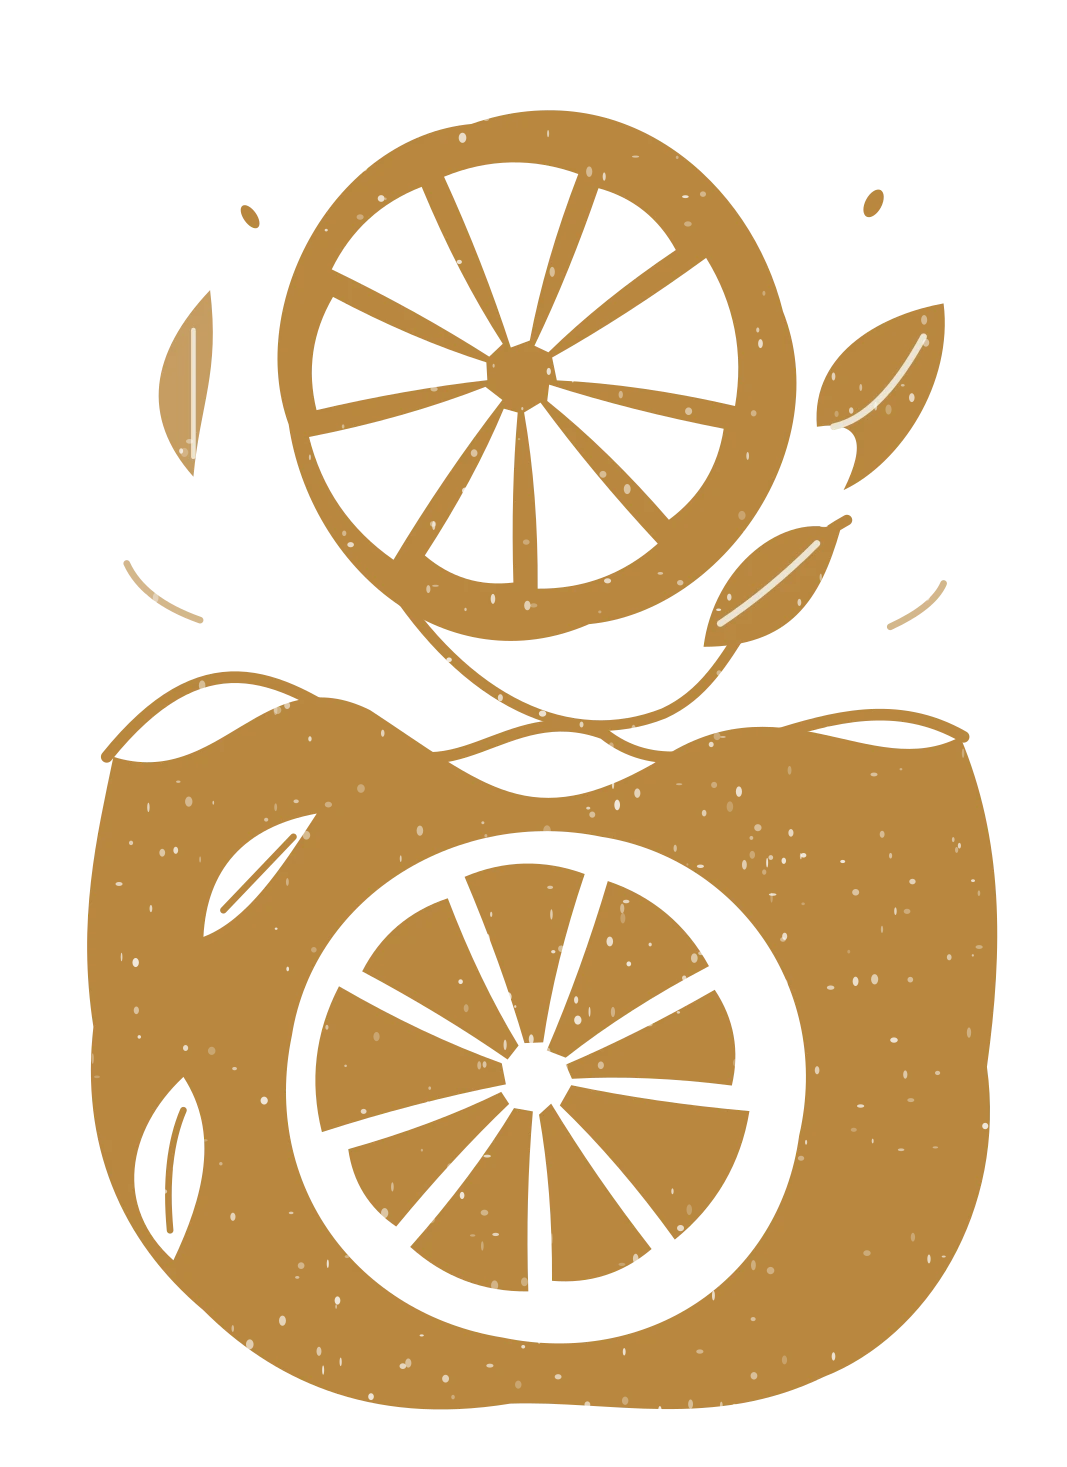
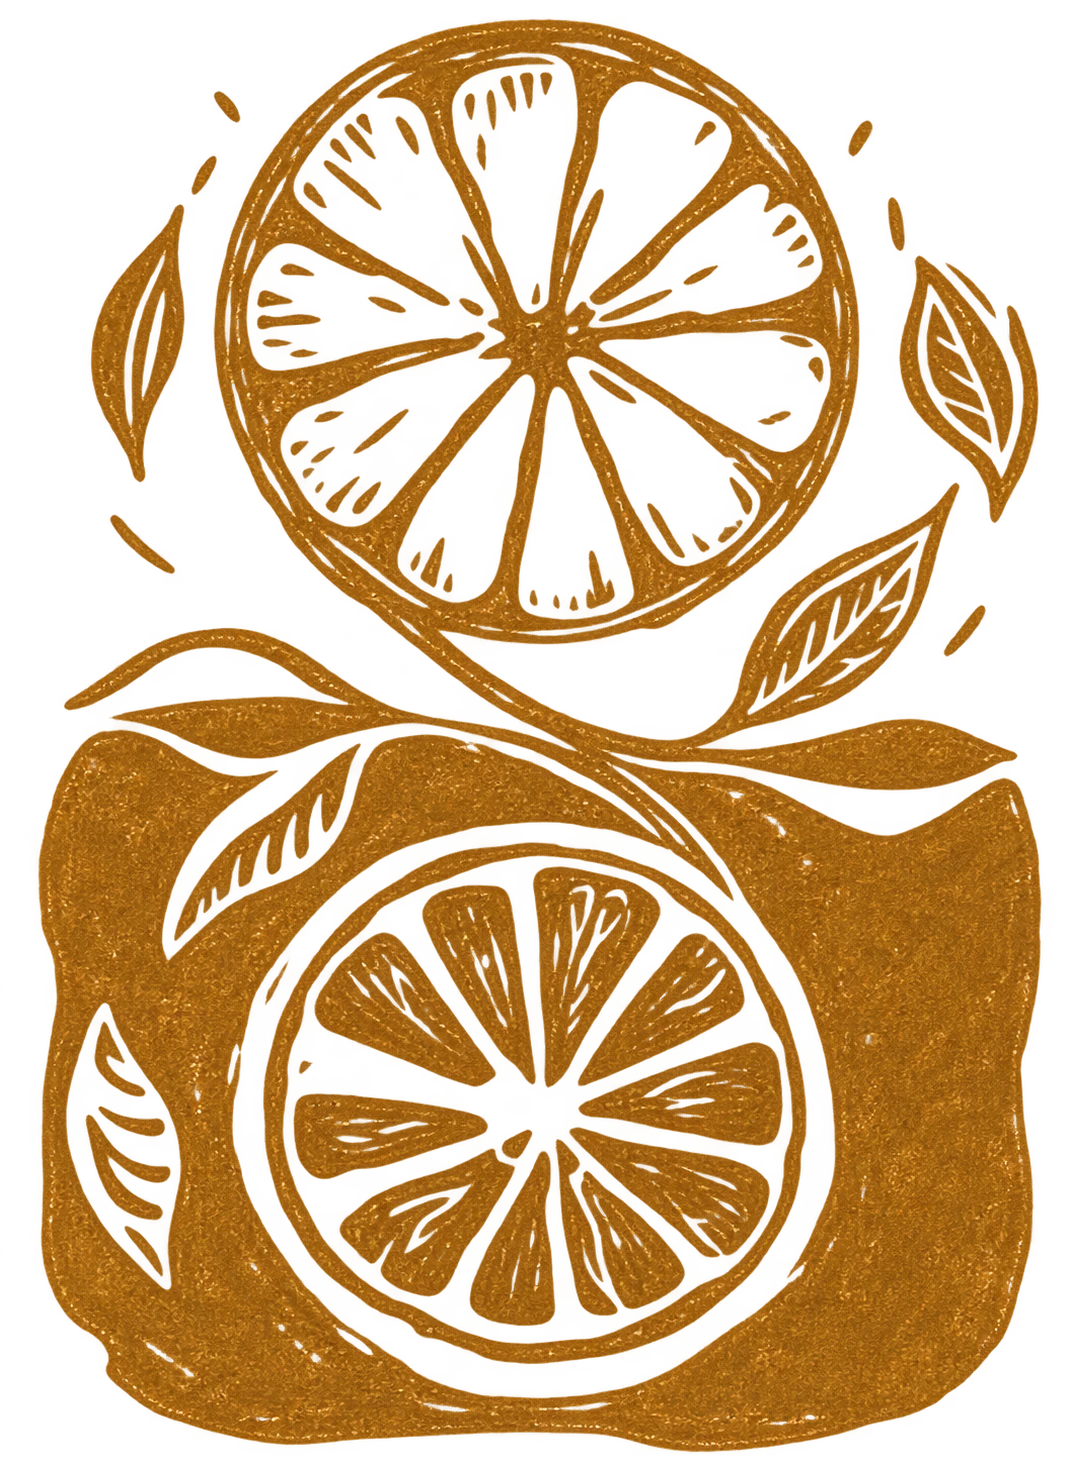
push prod9

diff --git a/src/content/map.es.ts b/src/content/map.es.ts
@@ -23,7 +23,7 @@ export const procesoContent = {
   title: "Sorbete de mora y enebro",
   introduction: "Elaborar un sabor que nace de un territorio, de sus relaciones y aromas.",
   steps: [
-    { id: "territorio", title: "Territorio", subtitle: "Todo empieza por escuchar un lugar.", body: "Observar el paisaje, el suelo, el agua, la luz y la estación. En el ejemplo, la mora y el enebro habitan un mismo entorno: ese vínculo es el punto de partida, el bosque mediterráneo" },
+    { id: "territorio", title: "Territorio", subtitle: "Todo empieza por escuchar el lugar.", body: "Observar el paisaje, el suelo, el agua, la luz y la estación. En el ejemplo, la mora y el enebro habitan un mismo entorno: el bosque mediterráneo. Ese vínculo es el punto de partida, " },
     { id: "materia", title: "Materia", subtitle: "Conocer antes de intervenir.", body: "La mora aporta dulzor, jugosidad y notas silvestres. El enebro, un carácter aromático, resinoso y de bosque. Explorar su expresión sensorial: observar, tocar, oler, degustar." },
     { id: "conocimiento", title: "Conocimiento", subtitle: "El tiempo también es un ingrediente.", body: "Investigar, probar, equivocarse y volver a probar. Poner en diálogo los saberes ancestrales, la botánica, la técnica y la experiencia sensorial para comprender la materia." },
     { id: "relaciones", title: "Relaciones", subtitle: "Encontrar el hilo que las une.", body: "La dulzura oscura y redonda de la mora permite tensar la composición con el carácter punzante del enebro. El territorio orienta la combinación; las pruebas permiten afinar su equilibrio." },

diff --git a/src/components/short-bio.tsx b/src/components/short-bio.tsx
@@ -9,11 +9,11 @@ const lines = sentences.map((text, index) => ({
 
 export function ShortBio() {
   return (
-    <p lang="es" className="max-w-xl px-4 text-center font-display text-2xl leading-relaxed text-ink-muted ">
+    <p lang="es" className="max-w-xl px-4 text-center font-display text-2xl leading-snug text-ink-muted ">
       <span className="sr-only">{seoConfig.description}</span>
       <span aria-hidden="true">
         {lines.map(({ text, offset }) => (
-          <span key={text} className="block not-first:mt-3">
+          <span key={text} className="block not-first:mt-1">
             {Array.from(text.replaceAll("-", "\u2011")).map((letter, index) => (
               <span key={index} className="bio-letter" style={{ "--letter-delay": `${(offset + index) * 0.022}s` } as CSSProperties}>{letter}</span>
             ))}

diff --git a/src/config/seo.ts b/src/config/seo.ts
@@ -6,7 +6,7 @@ export const seoConfig = {
   url: "https://paula-rosat.vercel.app",
   name: "Paula Rosat",
   title: "Paula Rosat",
-  description: "Co-creando con la naturaleza a través de los sentidos.",
+  description: "Creativa heladera y destiladora de plantas. Co-creando con la naturaleza a través de los sentidos.",
   locale: "es_ES",
   icons: {
     icon: { url: "/icon.png", type: "image/png", sizes: "48x48" },

diff --git a/docs/artwork/relaciones-citrus.md b/docs/artwork/relaciones-citrus.md
@@ -1,0 +1,7 @@
+# Relaciones: estampa de cítricos
+
+La versión actual es `public/illustrations/relaciones.png`, con su copia WebP para la web. Se generó con imagegen tomando la estampa de cítricos facilitada por el usuario como referencia de detalle y la ilustración anterior como referencia de composición.
+
+Dos rodajas conectadas por un tallo con hojas, tinta ocre, bordes irregulares, marcas talladas en la pulpa, nervaduras y textura de impresión. Fondo transparente.
+
+`public/illustrations/relaciones.svg` y `docs/artwork/relaciones-mark.svg` conservan la versión vectorial anterior; no son la fuente de la imagen actual. La aplicación carga `relaciones.webp` mediante `illustrationSource`.
